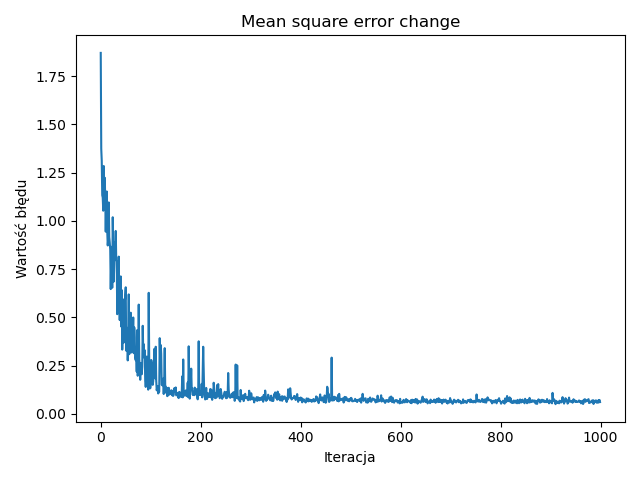
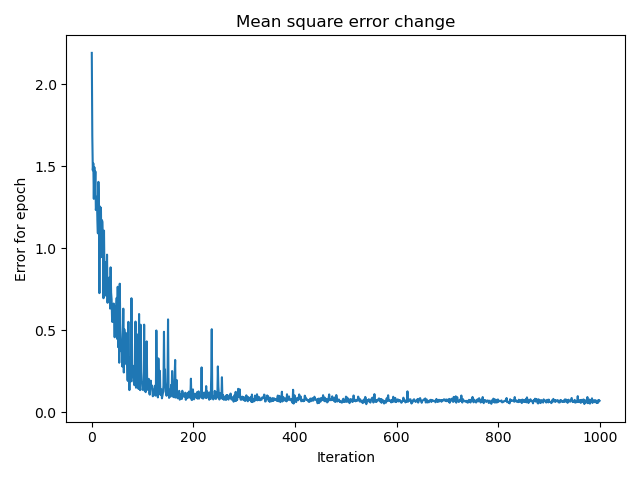
english

diff --git a/MultilayerPerceptron/Approximation/Aproksymacja.py b/MultilayerPerceptron/Approximation/Aproksymacja.py
@@ -146,8 +146,8 @@ def plot_file():
     for i in lines:
         values.append(float(i))
     plt.plot(values, markersize=1)
-    plt.xlabel('Iteracja')
-    plt.ylabel('Wartość błędu')
+    plt.xlabel('Iteration')
+    plt.ylabel('Error for epoch')
     plt.title("Mean square error change")
     plt.show()
 
